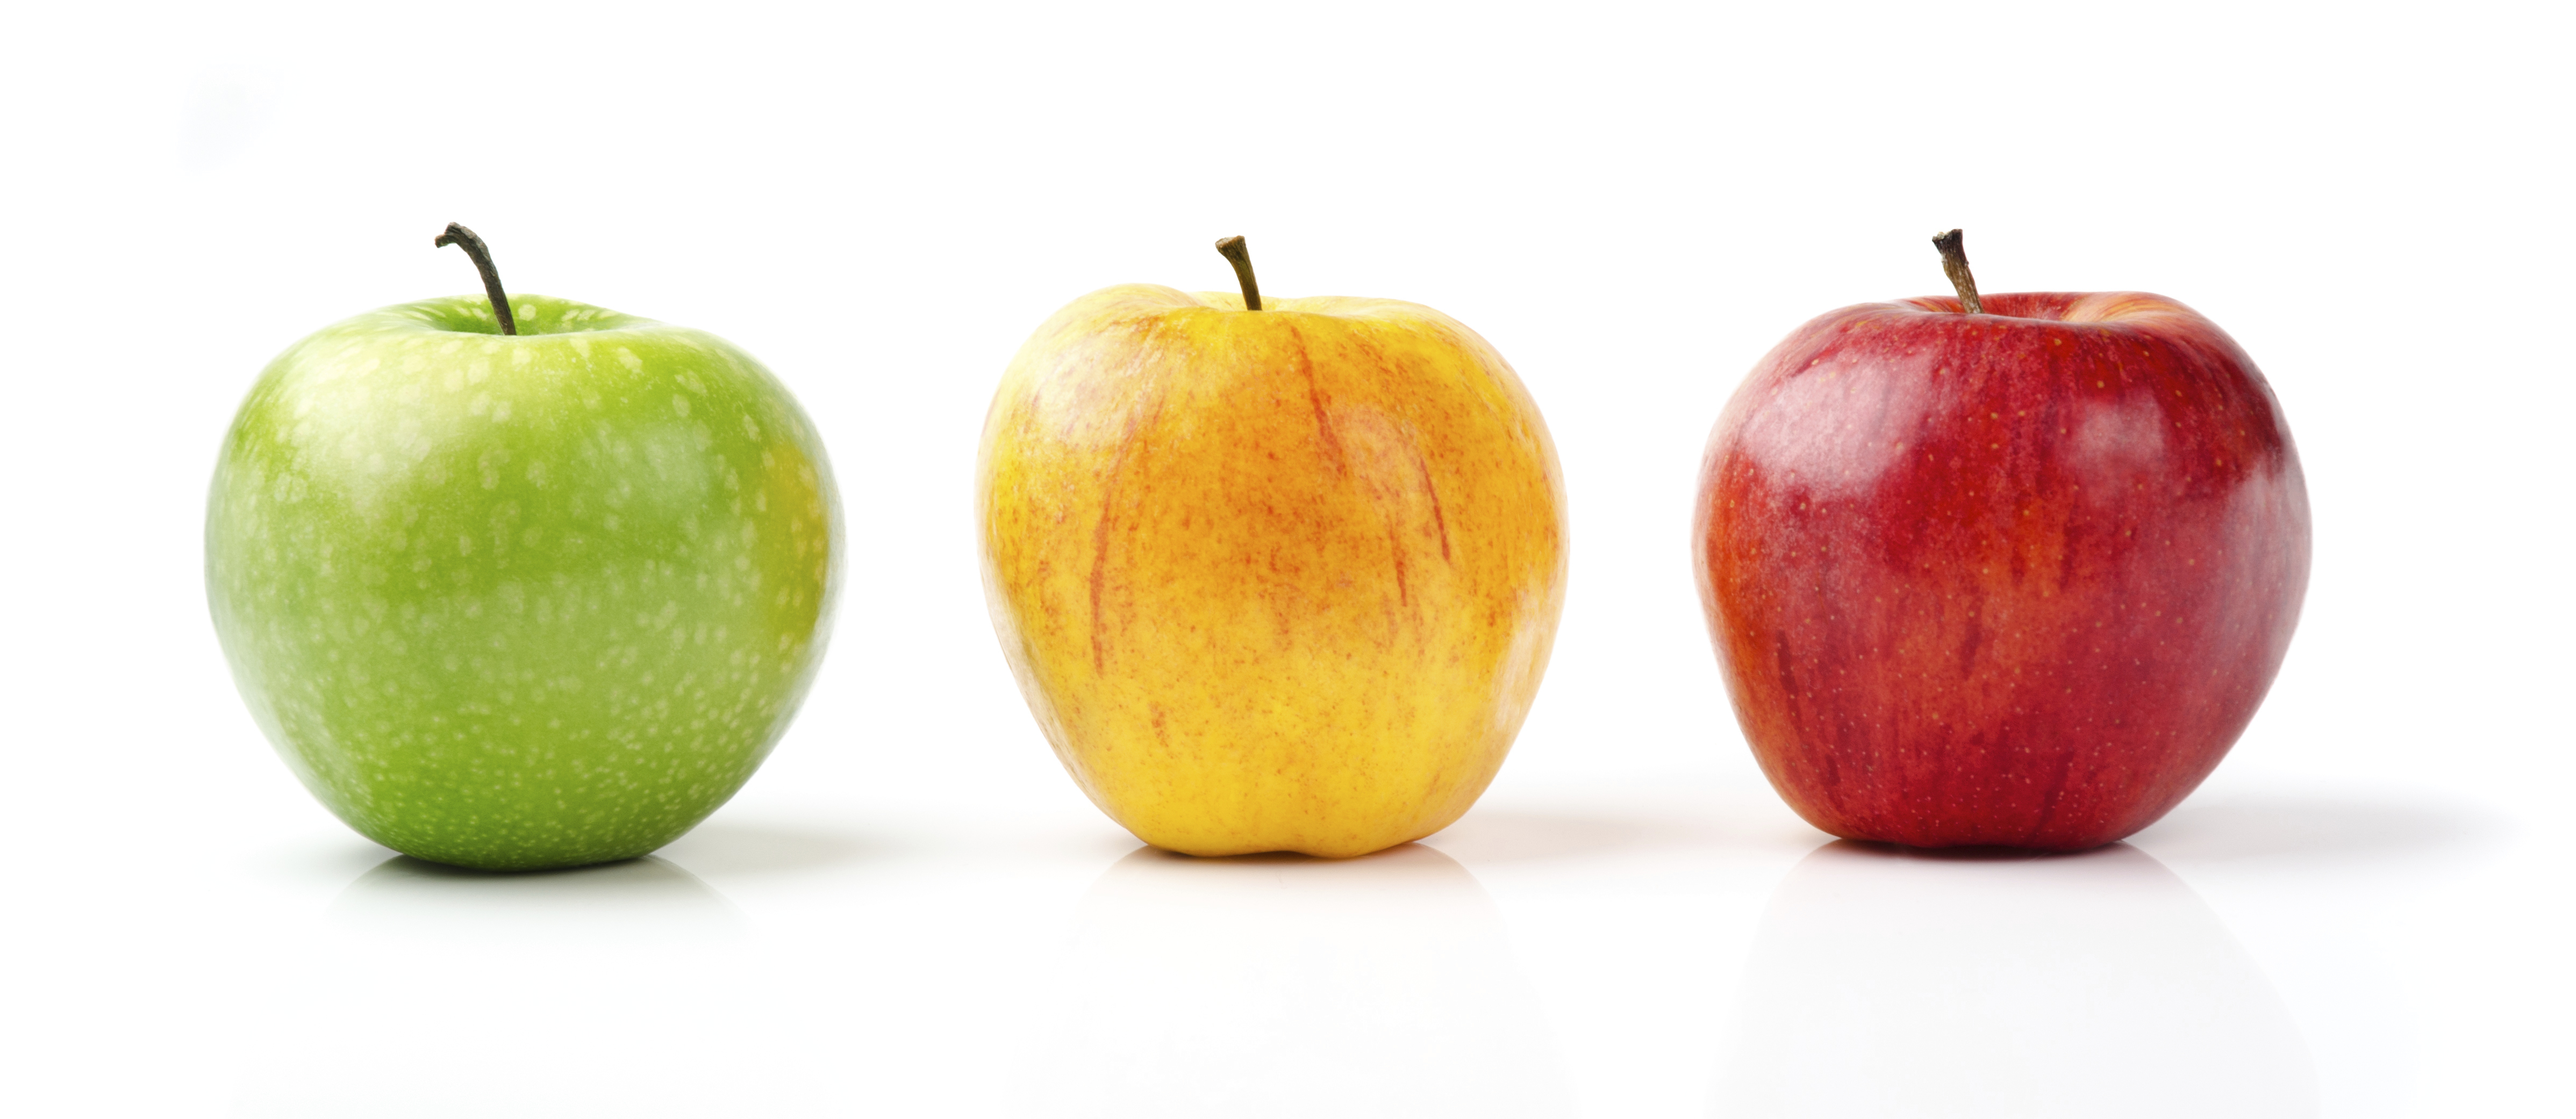
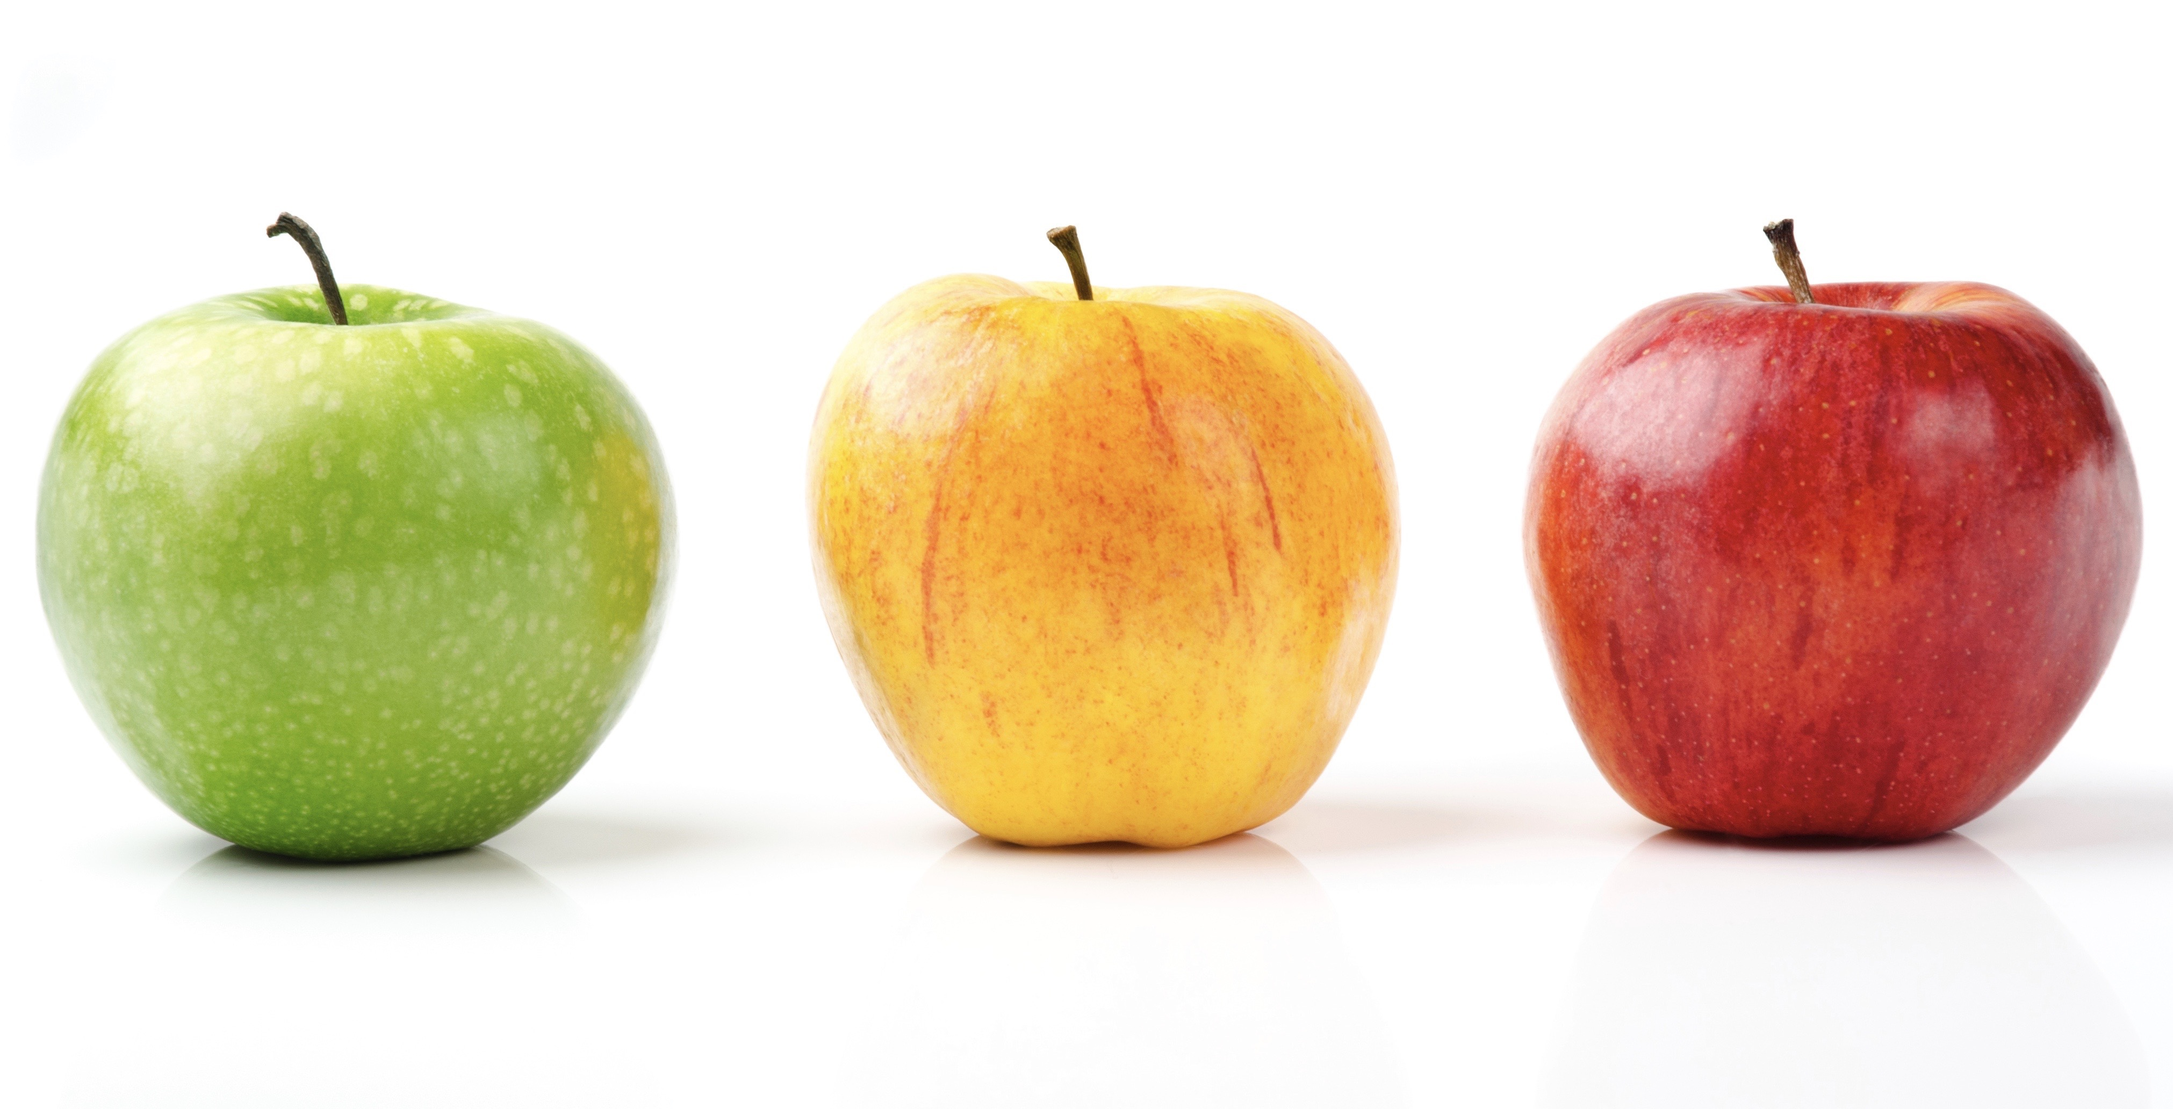
SpriteKit only supports images at 4096x4096

Changed region(s): [[0.3739, 0.186, 1.0, 0.8062], [0.0, 0.186, 0.3427, 0.8062]]

diff --git a/PixAndWord/PixAndWord/GameScene.swift b/PixAndWord/PixAndWord/GameScene.swift
@@ -92,6 +92,7 @@ class GameScene: SKScene{
         for i in stride(from: 0, to: 4, by: 1) {
             let pic = SKSpriteNode(imageNamed: "Images/Pictures/" + GameModel.sharedInstance.levels[GameModel.sharedInstance.levNum].picLoc[i])
             pic.setScale(0.05)
+            
             pic.zPosition = 2
             if i < 2{
                 pic.position = CGPoint(x: -150 + i * 200, y: 520)
@@ -128,7 +129,6 @@ class GameScene: SKScene{
             var ini = CGFloat(setInit(metric: tail, amount: stop))
             if i > 0{
                 tile.position = CGPoint(x: ini + CGFloat(Double(tile.size.width) * Double(i)), y: yPos)
-                
             }
             else{
                 tile.position = CGPoint(x: ini, y: yPos)

diff --git a/PixAndWord/PixAndWord/GameViewController.swift b/PixAndWord/PixAndWord/GameViewController.swift
@@ -40,6 +40,7 @@ class GameViewController: UIViewController {
                     
                     view.showsFPS = true
                     view.showsNodeCount = true
+                    view.showsPhysics = true
                 }
             }
         }
